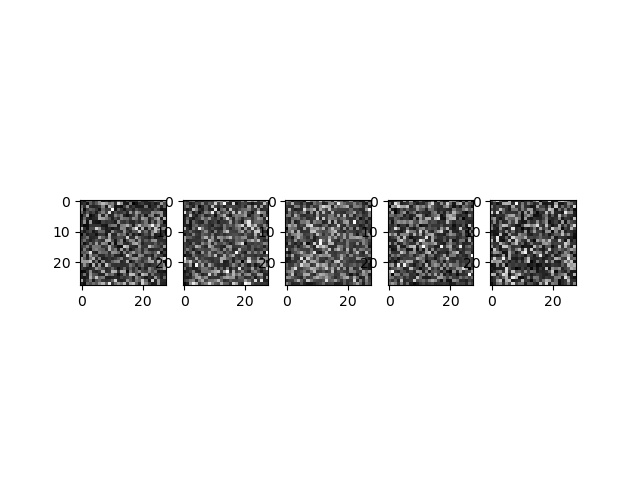
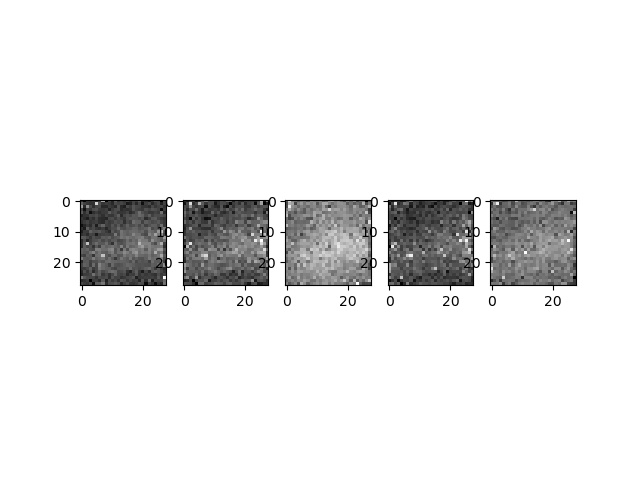
trained

Changed region(s): [[0.125, 0.4062, 0.9062, 0.5938]]

diff --git a/FashionGAN/FashionGAN.py b/FashionGAN/FashionGAN.py
@@ -99,8 +99,8 @@ descriminator.compile(optimizer=K.optimizers.Adam(learning_rate=0.001, beta_1=0.
         loss=K.losses.binary_crossentropy,
         metrics=['accuracy'])
 
-epochs = 20
-batchSize = 8192
+epochs = 100
+batchSize = 1024
 
 dataType = tf.float32
 trainData = tf.data.Dataset.from_tensor_slices((tf.cast(trainX, dataType), 
@@ -120,6 +120,7 @@ def printPreds(e, ganGen, sz):
     for i in range(sz):
         axs[i].imshow(np.reshape(ppreds[-1][i], (28,28)), cmap='gray')
     plt.savefig(f'e_{e}.jpg')
+    plt.close()
     if e != epochs:
         return
 
@@ -141,42 +142,17 @@ for e in range(1, epochs+1):
         aBatchSize = tBatchSize * 2
         genImages = ganGen.predict(tf.random.normal((tBatchSize,generatorInputSize)))
         
-        #idxs = tf.random.shuffle(tf.range(start=0, limit=aBatchSize))
         tX = tf.concat([X, genImages], axis=0)
         tY = tf.concat([Y, tf.zeros((tBatchSize, 1))], axis=0)
-        #tX, tY = tf.gather(tX, idxs), tf.gather(tY, idxs)
-
-        # Train the descriminator
-        #print('Training Descriminator')
-        #w, b = GAN.layers[1].layers[2].get_weights()
-        #print(w)
-        #ttx = tX.numpy()
-        #tty = tY.numpy()
 
         ld, da = descriminator.train_on_batch(tX, tY)
         edls.append(ld)
-
-        #w, b = GAN.layers[1].layers[2].get_weights()
-        #print(w)
-
-        # Train the generator
-        #print(GAN.layers[1].layers[2].trainable_weights)
-
         mvns = tf.random.normal((aBatchSize, generatorInputSize))
         lg, ga  = GAN.train_on_batch(x=mvns, y=tf.ones((len(mvns),1)))
         egls.append(lg)
 
         if b % 5 == 0:
-            #p = GAN.predict(tf.random.normal((aBatchSize, generatorInputSize)))
-            #d = descriminator.predict(ganGen.predict(tf.random.normal((tBatchSize,generatorInputSize))))
-            #gacc = np.sum(p > 0.5) / aBatchSize
-            #dacc = np.sum(d < 0.5) / tBatchSize
-            #print(f'genLoss: {lg:.12f}, descLoss: {ld:.12f}, GAN acc:{gacc:.4f}, DescFake acc:{dacc:.4f}')
             print(f'genLoss: {lg:.12f}, descLoss: {ld:.12f}, GAN acc:{ga:.4f}, DescFake acc:{da:.4f}')
-
-        #w, b = GAN.layers[1].layers[2].get_weights()
-        #print(w)
-
 
     if e and e % 10 == 0:
         printPreds(e, ganGen, 5)
